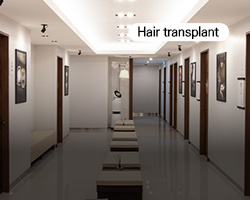
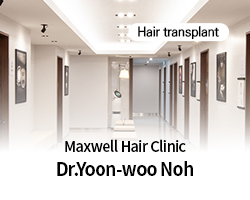
영문 성형 썸네일 변경 250416

diff --git a/plastic/contourEN.html b/plastic/contourEN.html
@@ -82,33 +82,33 @@
                 </div>
                 <div class="hospital__bottom">
                     <ul>
-                        <li>
+                        <li style="border: 1px solid #e4e4e4;">
                             <a href="/doctor/plasticEN/Dr_ChoDongPillEN.html">
-                                <div class="hospital__list">
+                                <div class="hospital__list" style="display: none;">
                                     <span style="font-size: 13px;">AB Plastic Surgery Clinic</span>
                                     <span>Dr.Jo Dong-Pil</span>
                                 </div>
                             </a>
                         </li>
-                        <li>
+                        <li style="border: 1px solid #e4e4e4;">
                             <a href="/doctor/plasticEN/Dr_YoonChangWoonEN.html">
-                                <div class="hospital__list">
+                                <div class="hospital__list" style="display: none;">
                                     <span style="font-size: 13px;">View Plastic Surgery</span>
                                     <span>Dr.Yun Chang Woon</span>
                                 </div>
                             </a>
                         </li>
-                        <li>
+                        <li style="border: 1px solid #e4e4e4;">
                             <a href="/doctor/plasticEN/Dr_LeeSangWooEN.html">
-                                <div class="hospital__list">
+                                <div class="hospital__list" style="display: none;">
                                     <span style="font-size: 13px;">DA Plastic Surgery Clinic</span>
                                     <span>Dr.Lee Sang Woo</span>
                                 </div>
                             </a>
                         </li>
-                        <li>
+                        <li style="border: 1px solid #e4e4e4;">
                             <a href="/doctor/plasticEN/Dr_ParkSangHoonEN.html">
-                                <div class="hospital__list">
+                                <div class="hospital__list" style="display: none;">
                                     <span style="font-size: 13px;">ID Hospital</span>
                                     <span>Dr.Sang Hoon Park</span>
                                 </div>

diff --git a/plastic/breastEN.html b/plastic/breastEN.html
@@ -82,33 +82,33 @@
                 </div>
                 <div class="hospital__bottom">
                     <ul>
-                        <li>
+                        <li style="border: 1px solid #e4e4e4;">
                             <a href="/doctor/plasticEN/Dr_ChoiSangMoonEN.html">
-                                <div class="hospital__list">
+                                <div class="hospital__list" style="display: none;">
                                     <span style="font-size: 13px;">Ryan Plastic Surgery</span>
                                     <span>Dr.Choi Sangmun</span>
                                 </div>
                             </a>
                         </li>
-                        <li>
+                        <li style="border: 1px solid #e4e4e4;">
                             <a href="/doctor/plasticEN/Dr_ChoiSoonWooEN.html">
-                                <div class="hospital__list">
+                                <div class="hospital__list" style="display: none;">
                                     <span style="font-size: 13px;">View Plastic Surgery</span>
                                     <span>Dr.Choi Soon Woo</span>
                                 </div>
                             </a>
                         </li>
-                        <li>
+                        <li style="border: 1px solid #e4e4e4;">
                             <a href="/doctor/plasticEN/Dr_KimKiGapEN.html">
-                                <div class="hospital__list">
+                                <div class="hospital__list" style="display: none;">
                                     <span style="font-size: 13px;">U&U Plastic Surgery</span>
                                     <span>Dr.Kim Ki-Gap</span>
                                 </div>
                             </a>
                         </li>
-                        <li >
+                        <li style="border: 1px solid #e4e4e4;">
                             <a href="/doctor/plasticEN/Dr_OkJaeJinEN.html">
-                                <div class="hospital__list">
+                                <div class="hospital__list" style="display: none;">
                                     <span style="font-size: 13px;">THE Plastic Surgery Clinic Korea</span>
                                     <span>Dr.Ock Jae Jin</span>
                                 </div>

diff --git a/plastic/liposuctionEN.html b/plastic/liposuctionEN.html
@@ -82,33 +82,33 @@
                 </div>
                 <div class="hospital__bottom">
                     <ul>
-                        <li>
+                        <li style="border: 1px solid #e4e4e4;">
                             <a href="/doctor/plasticEN/Dr_SungKiSooEN.html">
-                                <div class="hospital__list">
+                                <div class="hospital__list" style="display: none;">
                                     <span>Chungdam Jeunex Clinic</span>
                                     <span>Dr.Ki Su Sung</span>
                                 </div>
                             </a>
                         </li>
-                        <li>
+                        <li style="border: 1px solid #e4e4e4;">
                             <a href="/doctor/plasticEN/Dr_JangDooYeolEN.html">
-                                <div class="hospital__list">
+                                <div class="hospital__list" style="display: none;">
                                     <span>Change Clinic</span>
                                     <span>Dr.Chang Doo Yeoul</span>
                                 </div>
                             </a>
                         </li>
-                        <li>
+                        <li style="border: 1px solid #e4e4e4;">
                             <a href="/doctor/plasticEN/Dr_LeeJaeYoungEN.html">
-                                <div class="hospital__list">
+                                <div class="hospital__list" style="display: none;">
                                     <span>N-Slim Clinic</span>
                                     <span>Jae Young Lee</span>
                                 </div>
                             </a>
                         </li>
-                        <li>
+                        <li style="border: 1px solid #e4e4e4;">
                             <a href="/doctor/plasticEN/Dr_AhnkyongCheonEN.html">
-                                <div class="hospital__list">
+                                <div class="hospital__list" style="display: none;">
                                     <span>Lydian Cosmetic Surgery Clinic</span>
                                     <span>Dr.Abraham An</span>
                                 </div>

diff --git a/plastic/liftingEN.html b/plastic/liftingEN.html
@@ -82,25 +82,25 @@
                 </div>
                 <div class="hospital__bottom">
                     <ul>
-                        <li>
+                        <li style="border: 1px solid #e4e4e4;">
                             <a href="/doctor/plasticEN/Dr_ParkDongManEN.html">
-                                <div class="hospital__list">
+                                <div class="hospital__list" style="display: none;">
                                     <span>PDM Plastic Surgery</span>
                                     <span>Dr.Dongman Park</span>
                                 </div>
                             </a>
                         </li>
-                        <li>
+                        <li style="border: 1px solid #e4e4e4;">
                             <a href="/doctor/plasticEN/Dr_LeeJuHeunEN.html">
-                                <div class="hospital__list">
+                                <div class="hospital__list" style="display: none;">
                                     <span>WONJIN Plastic Surgery</span>
                                     <span>Dr.Lee Joo Heon</span>
                                 </div>
                             </a>
                         </li>
-                        <li>
+                        <li style="border: 1px solid #e4e4e4;">
                             <a href="/doctor/plasticEN/Dr_SimWooCheolEN.html">
-                                <div class="hospital__list">
+                                <div class="hospital__list" style="display: none;">
                                     <span>V.Lif Plastic Surgery Clinic</span>
                                     <span>Dr.Woochul Shim</span>
                                 </div>

diff --git a/plastic/hairTransplantEN.html b/plastic/hairTransplantEN.html
@@ -82,25 +82,25 @@
                 </div>
                 <div class="hospital__bottom">
                     <ul>
-                        <li>
+                        <li style="border: 1px solid #e4e4e4;">
                             <a href="/doctor/plasticEN/Dr_HwangJeongWookEN.html">
-                                <div class="hospital__list">
+                                <div class="hospital__list" style="display: none;">
                                     <span>Mojelim</span>
                                     <span>Dr.Hwang, Jeong Wook</span>
                                 </div>
                             </a>
                         </li>
-                        <li>
+                        <li style="border: 1px solid #e4e4e4;">
                             <a href="/doctor/plasticEN/Dr_LeeSeungyongEN.html">
-                                <div class="hospital__list">
+                                <div class="hospital__list" style="display: none;">
                                     <span>Morgan Dermatology</span>
                                     <span>Dr.Seung Yong Lee</span>
                                 </div>
                             </a>
                         </li>
-                        <li>
+                        <li style="border: 1px solid #e4e4e4;">
                             <a href="/doctor/plasticEN/Dr_NohYoonWooEN.html">
-                                <div class="hospital__list">
+                                <div class="hospital__list" style="display: none;">
                                     <span>Maxwell Hair Clinic</span>
                                     <span>Dr.Yoon-woo Noh</span>
                                 </div>

diff --git a/plastic/noseEN.html b/plastic/noseEN.html
@@ -82,17 +82,17 @@
                 </div>
                 <div class="hospital__bottom">
                     <ul>
-                        <li>
+                        <li style="border: 1px solid #e4e4e4;">
                             <a href="/doctor/plasticEN/Dr_JeongJaeYongEN.html">
-                                <div class="hospital__list">
+                                <div class="hospital__list" style="display: none;">
                                     <span>THE PLUS Plastic Surgery Clinic</span>
                                     <span>Dr.Jeong Jae-yong</span>
                                 </div>
                             </a>
                         </li>
-                        <li>
+                        <li style="border: 1px solid #e4e4e4;">
                             <a href="/doctor/plasticEN/Dr_AhnTheHwanEN.html">
-                                <div class="hospital__list">
+                                <div class="hospital__list" style="display: none;">
                                     <span>Fresh ENT Clinic</span>
                                     <span>Dr.Ahn Tae Hwan</span>
                                 </div>

diff --git a/plastic/eyesEN.html b/plastic/eyesEN.html
@@ -82,9 +82,9 @@
                 </div>
                 <div class="hospital__bottom">
                     <ul>
-                        <li>
+                        <li style="border: 1px solid #e4e4e4;">
                             <a href="/doctor/plasticEN/Dr_ChoInChangEN.html">
-                                <div class="hospital__list">
+                                <div class="hospital__list" style="display: none;">
                                     <span>BIO Plastic Surgery</span>
                                     <span>Dr.In-Chang Cho</span>
                                 </div>

diff --git a/css/LaserBotoxFiller.css b/css/LaserBotoxFiller.css
@@ -103,6 +103,7 @@
     grid-template-areas: 
     'b c d e f g'
     'h i j k l m';
+    align-items: center;
 }
 
 .nav-cont li{

diff --git a/css/ThermageKR.css b/css/ThermageKR.css
@@ -104,6 +104,7 @@
     grid-template-areas: 
     'b c d e f g'
     'h i j k l m';
+    align-items: center;
 }
 
 .nav-cont li{
